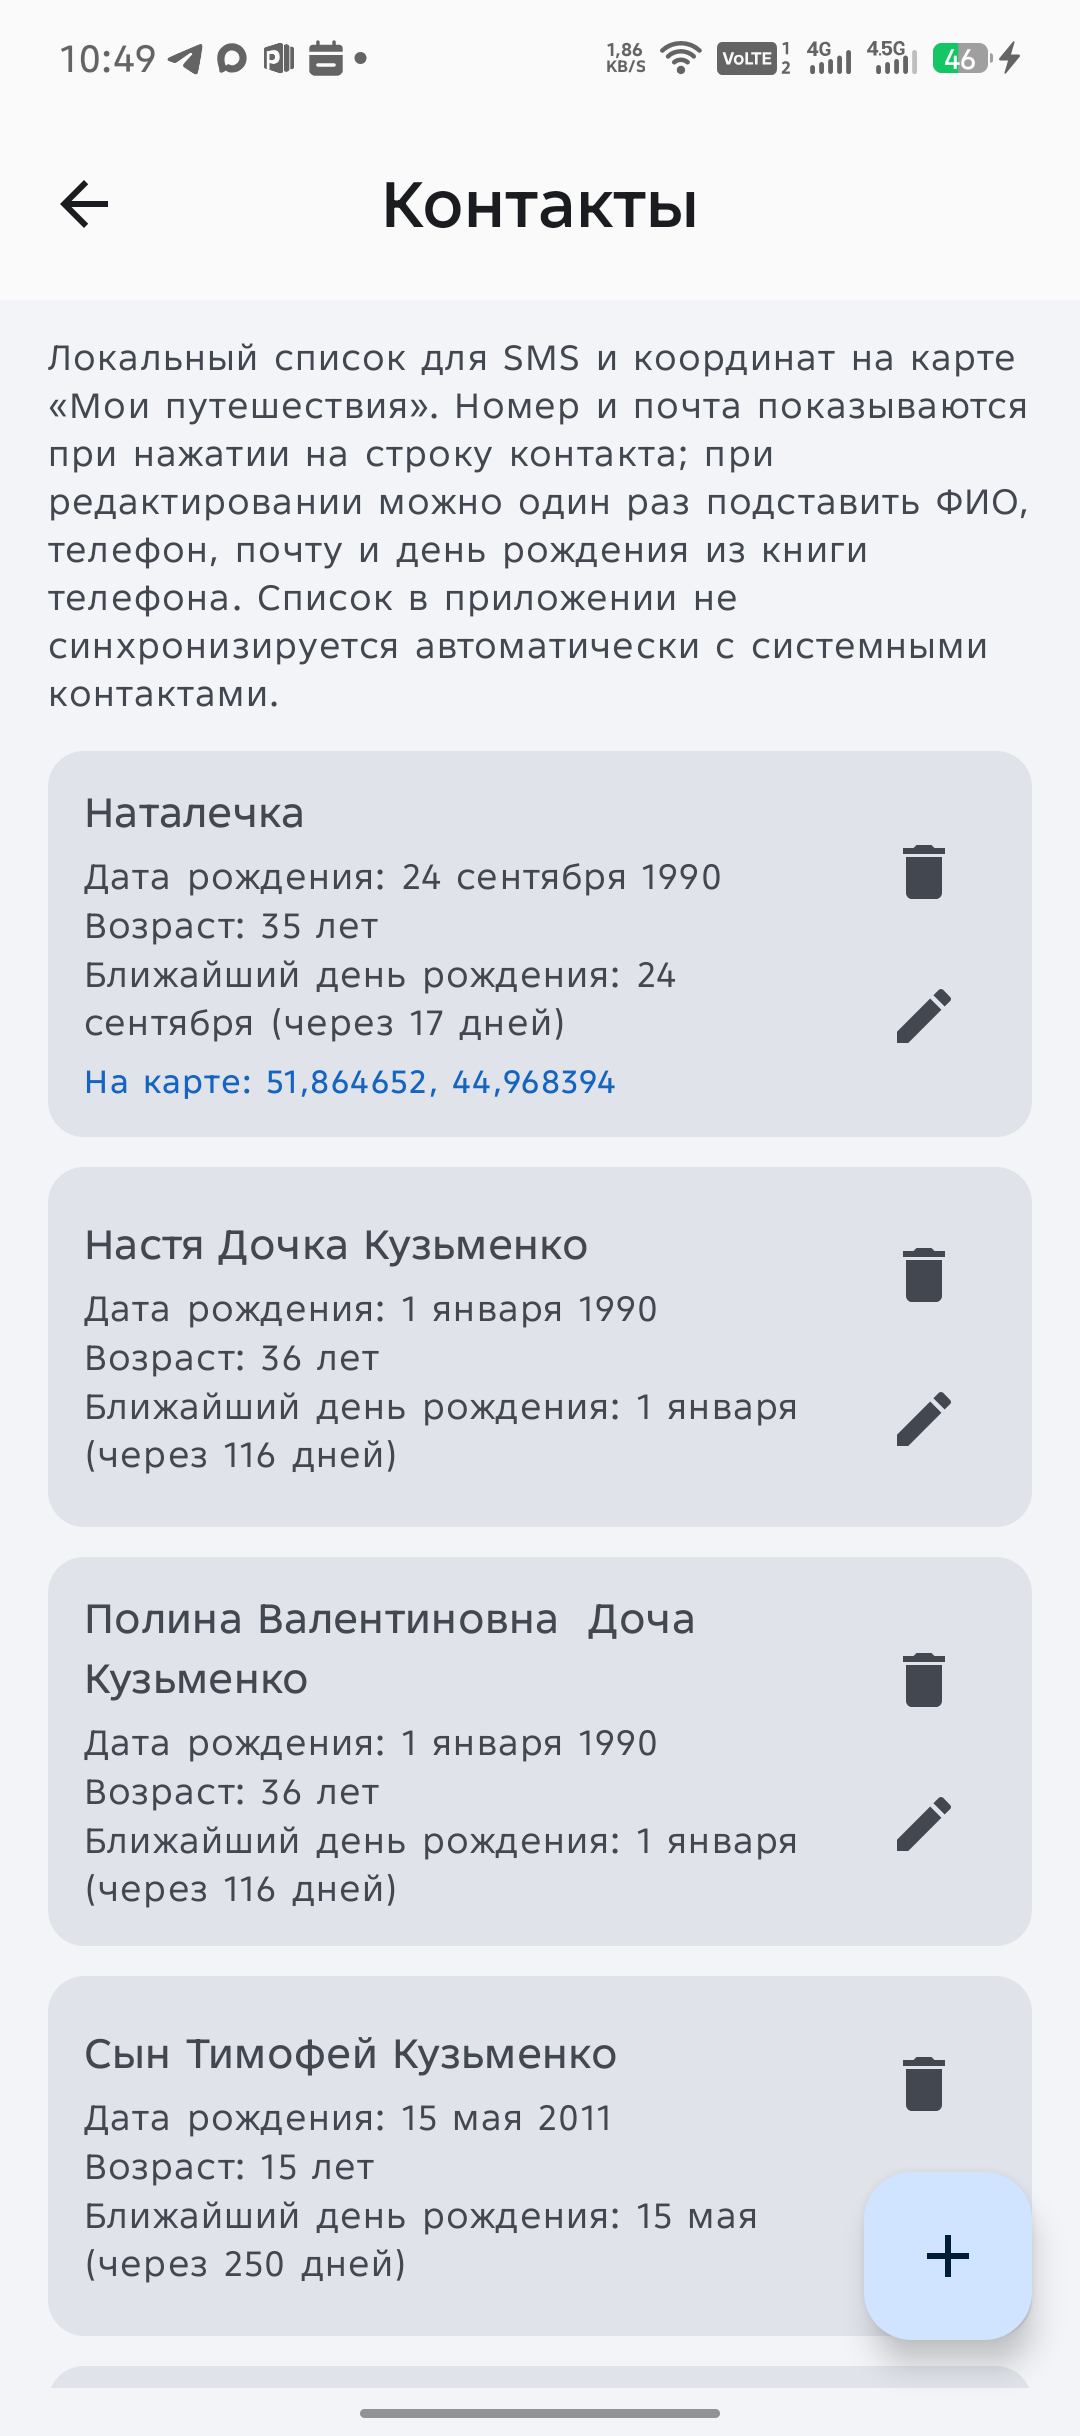
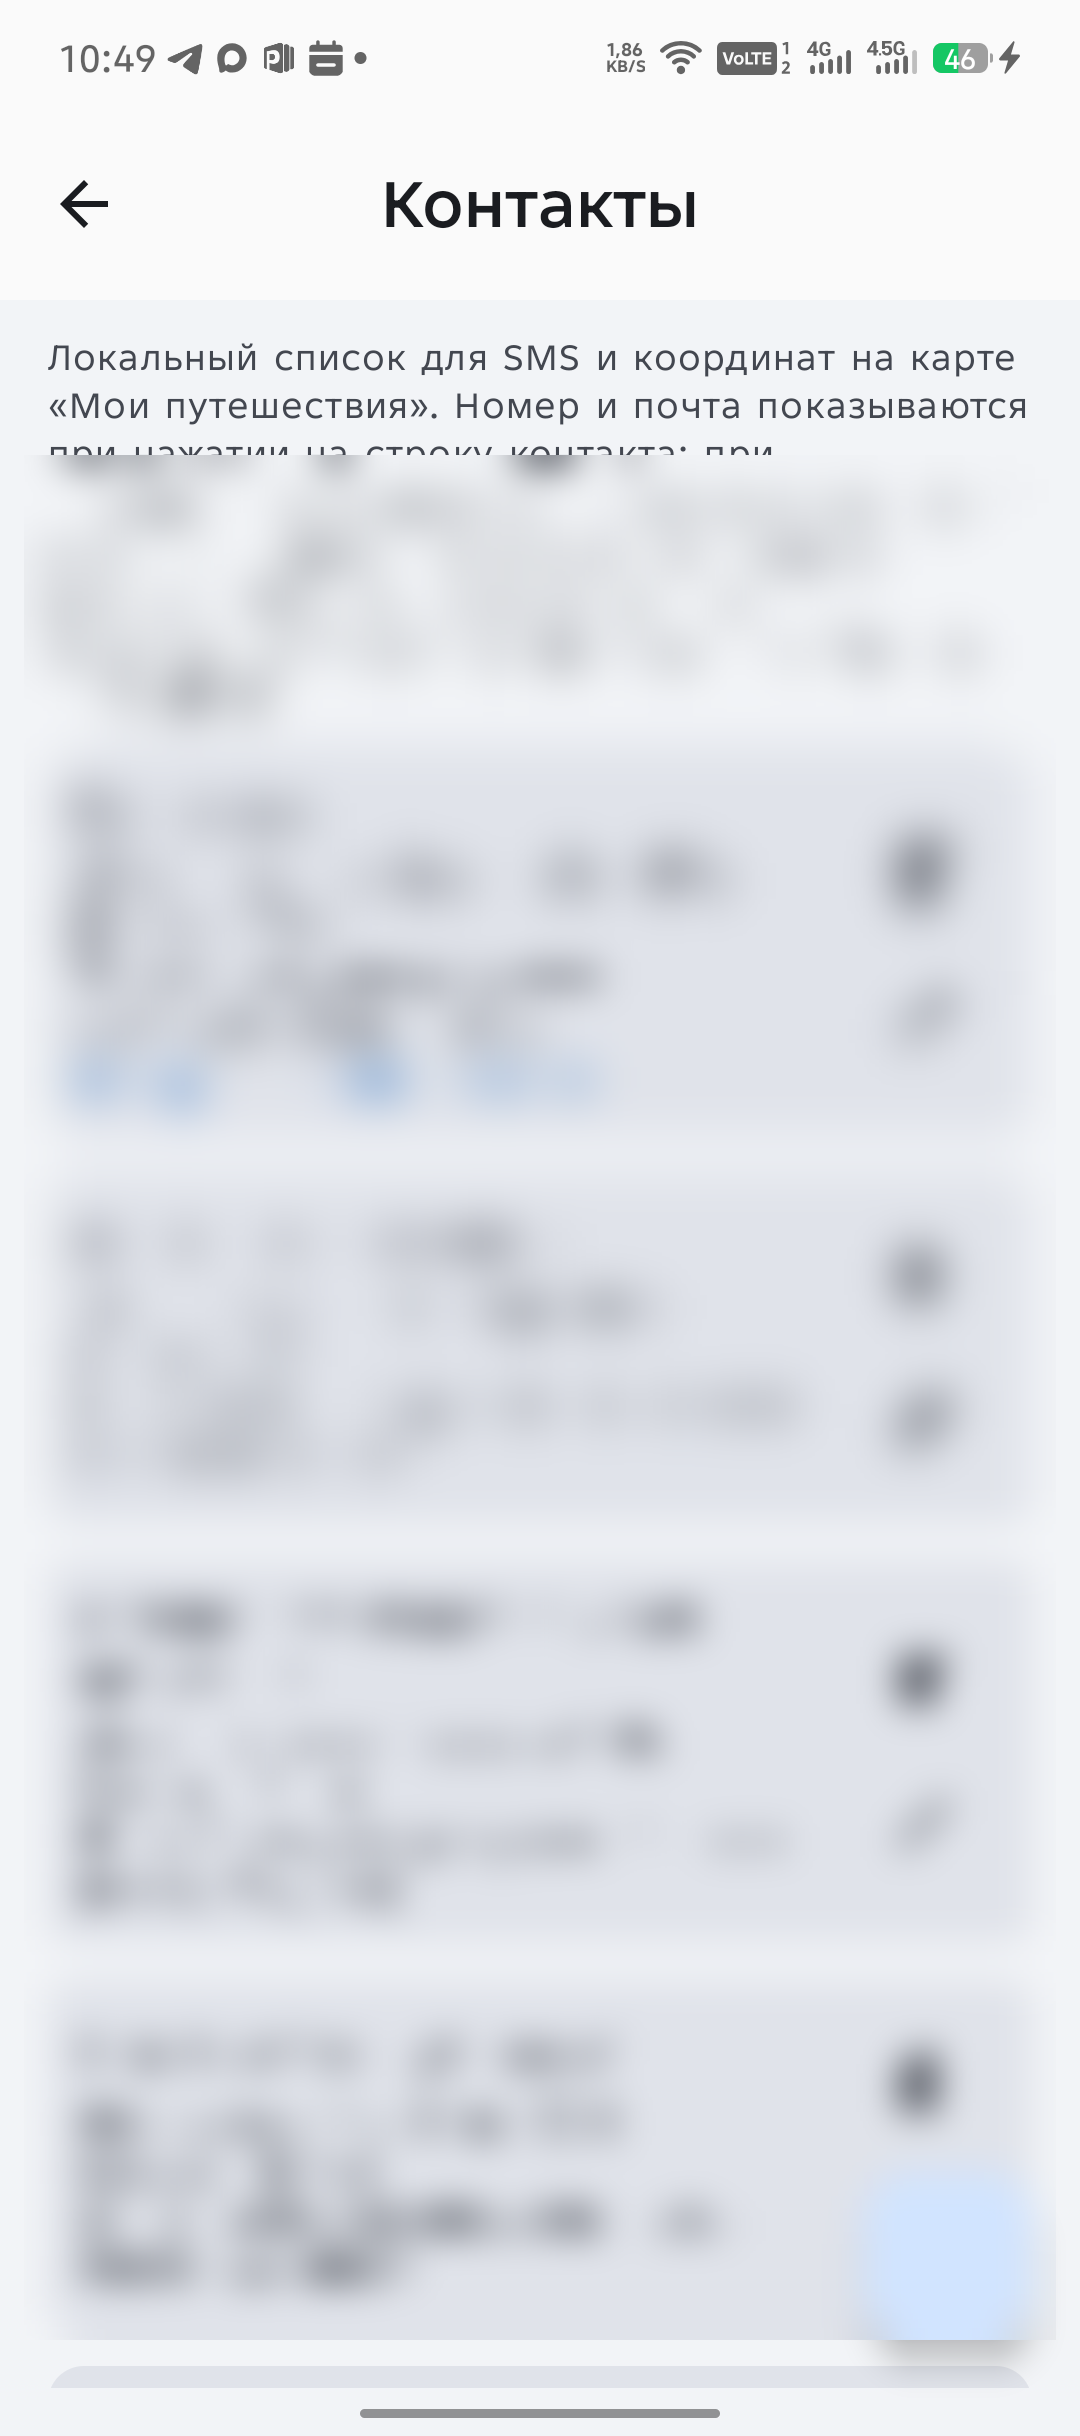
Замазать личные данные на скриншоте контактов для README

diff --git a/scripts/redact_contacts_screenshot.py b/scripts/redact_contacts_screenshot.py
@@ -1,0 +1,31 @@
+#!/usr/bin/env python3
+"""Замазывает личные данные на скриншоте экрана «Контакты» для README."""
+from __future__ import annotations
+
+import sys
+from pathlib import Path
+
+from PIL import Image, ImageFilter
+
+
+def redact_contacts_screenshot(path: Path) -> None:
+    im = Image.open(path).convert("RGBA")
+    w, h = im.size
+    # Область списка карточек: ниже поясняющего текста, выше FAB.
+    y0 = int(h * 0.187)
+    y1 = int(h * 0.96)
+    x0, x1 = int(w * 0.022), int(w * 0.978)
+    region = im.crop((x0, y0, x1, y1))
+    rw, rh = region.size
+    blocks = 12
+    small = region.resize((max(1, rw // blocks), max(1, rh // blocks)), Image.Resampling.NEAREST)
+    pixelated = small.resize((rw, rh), Image.Resampling.NEAREST)
+    blurred = pixelated.filter(ImageFilter.GaussianBlur(radius=18))
+    im.paste(blurred, (x0, y0))
+    im.save(path, "PNG")
+
+
+if __name__ == "__main__":
+    target = Path(sys.argv[1]) if len(sys.argv) > 1 else Path("docs/screenshots/29-contacts.png")
+    redact_contacts_screenshot(target.resolve())
+    print(f"Замазано: {target}")
